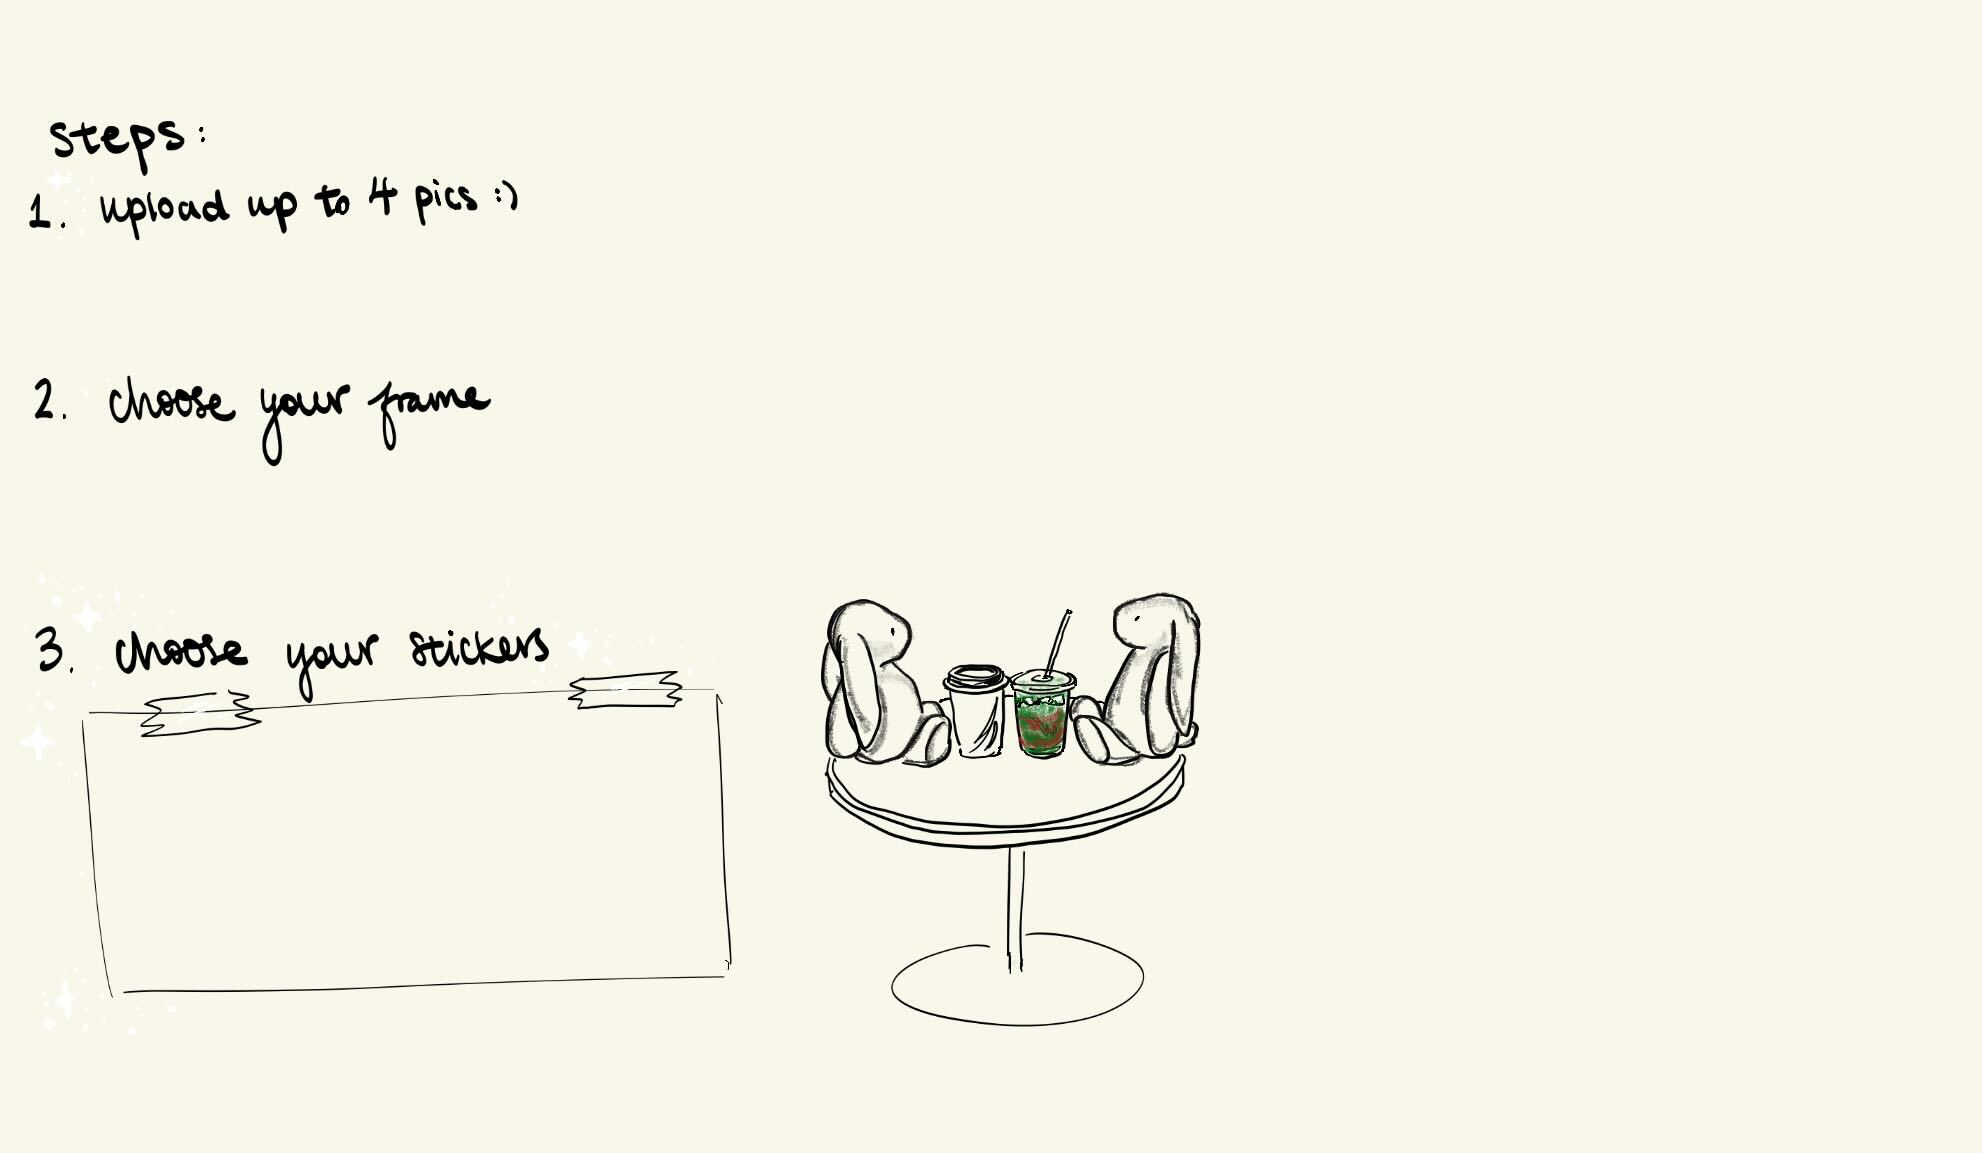
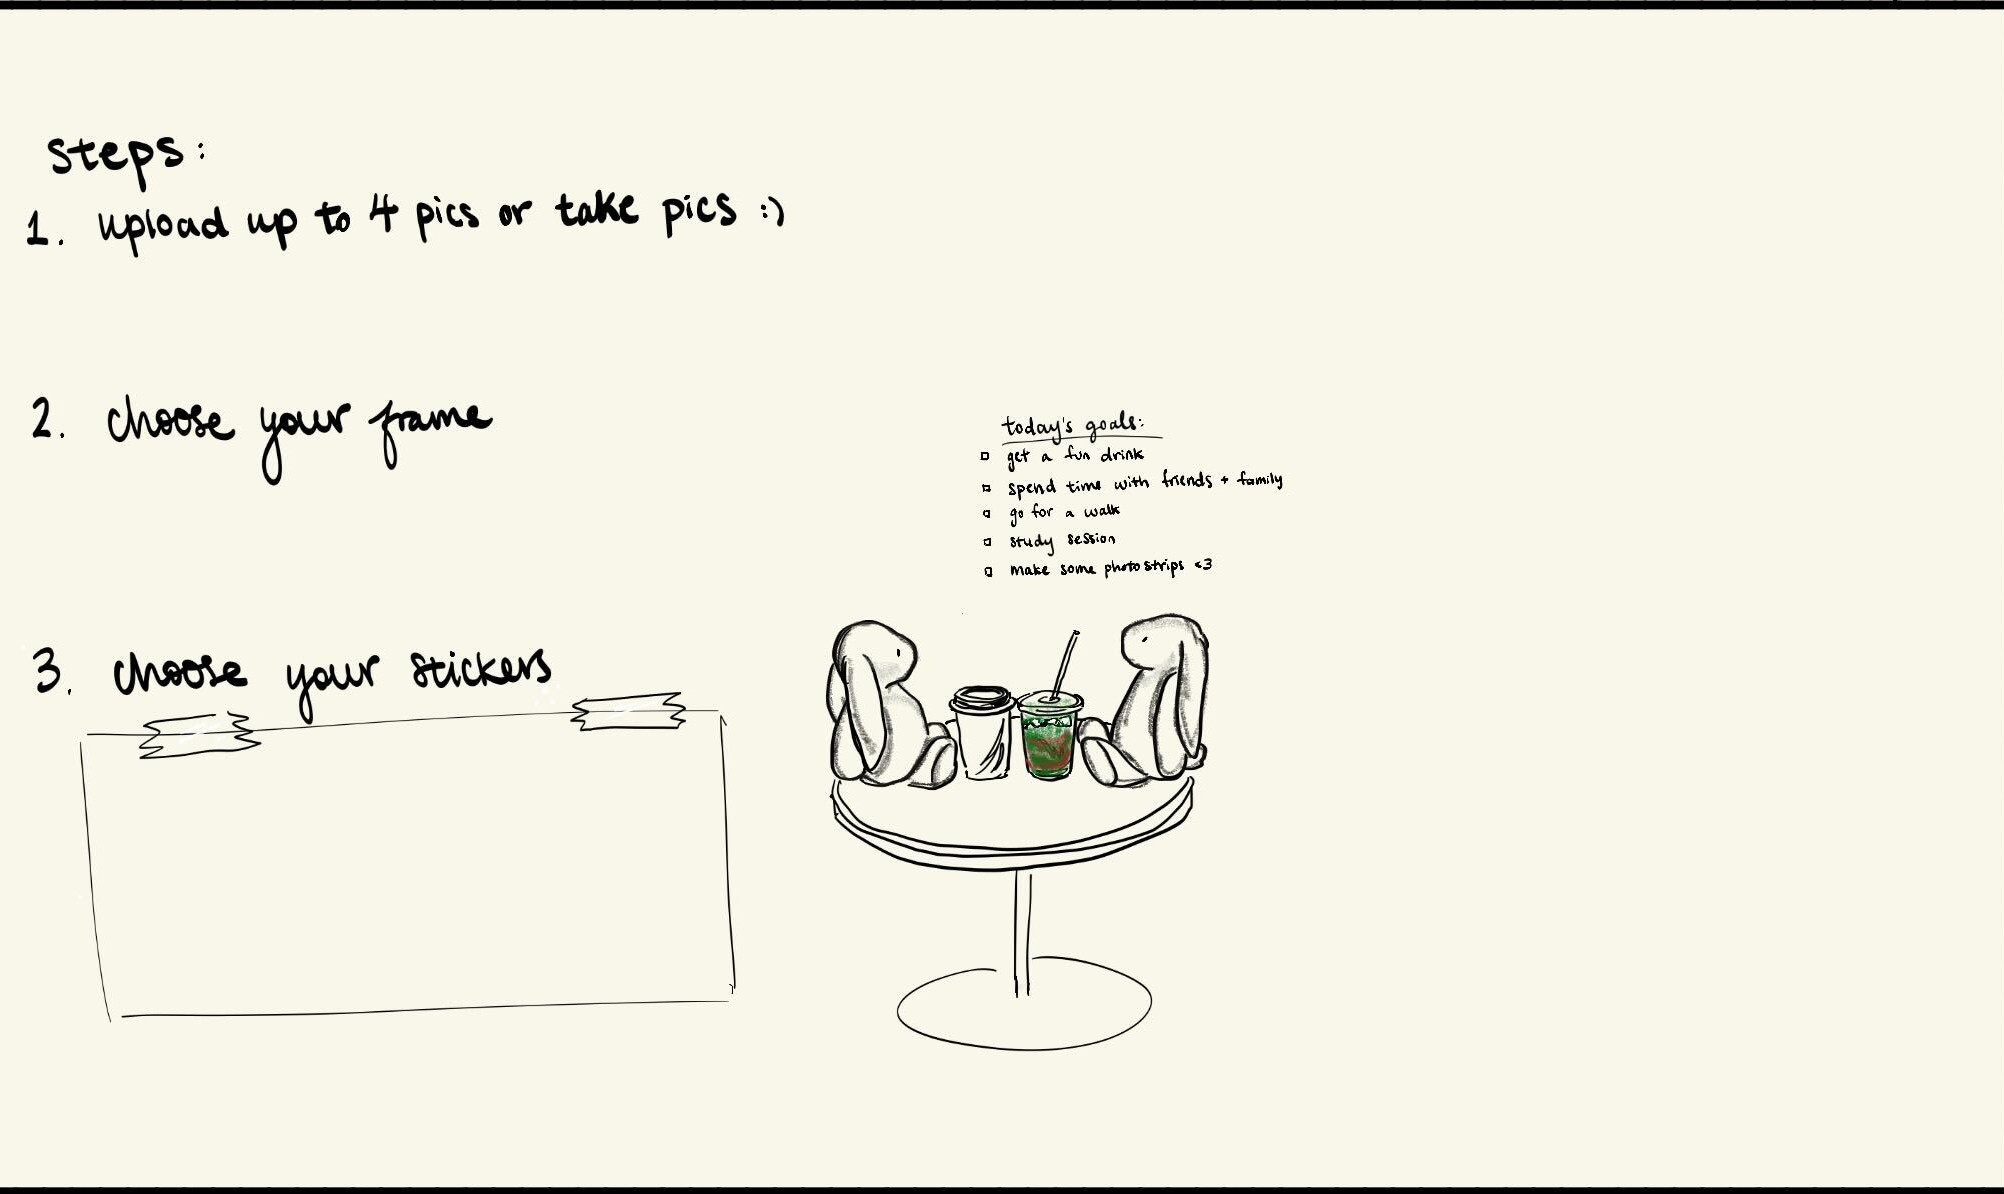
pretty much done

diff --git a/src/PhotoboothApp.js b/src/PhotoboothApp.js
@@ -62,15 +62,15 @@ const THEMES = {
     image: smiskiTheme,
     buttonImage: smiskiButton,
     buttonWidth: 60,
-    buttonLeft: 80,
+    buttonLeft: 81,
     buttonTop: 315,
     frameWidth: 281,
     frameHeight: 881,
-    photoWidth: 223,
-    photoHeight: 148,
-    photoLeft: 27,
-    photoTop: 35,
-    photoSpacing: 16,
+    photoWidth: 219,
+    photoHeight: 142,
+    photoLeft: 31,
+    photoTop: 39,
+    photoSpacing: 21.5,
     overlay: {
       image: smiskiOverlay,
       width: 135,
@@ -88,10 +88,10 @@ const THEMES = {
     frameWidth: 228,
     frameHeight: 719,
     photoWidth: 177,
-    photoHeight: 117,
-    photoLeft: 24,
-    photoTop: 40,
-    photoSpacing: 19,
+    photoHeight: 114,
+    photoLeft: 25,
+    photoTop: 42,
+    photoSpacing: 21.5,
     overlay: {
       image: sonnyAngelOverlay,
       width: 130,
@@ -108,11 +108,11 @@ const THEMES = {
     buttonTop: 315,
     frameWidth: 281,
     frameHeight: 886,
-    photoWidth: 218,
-    photoHeight: 142,
-    photoLeft: 31,
-    photoTop: 68,
-    photoSpacing: 25,
+    photoWidth: 217,
+    photoHeight: 141,
+    photoLeft: 33,
+    photoTop: 67,
+    photoSpacing: 26,
     overlay: {
       image: miffyCupcakeOverlay,
       width: 206,
@@ -131,7 +131,7 @@ const THEMES = {
     frameHeight: 879,
     photoWidth: 215,
     photoHeight: 140,
-    photoLeft: 33,
+    photoLeft: 34,
     photoTop: 73,
     photoSpacing: 25,
   },
@@ -159,11 +159,11 @@ const THEMES = {
     buttonTop: 374,
     frameWidth: 283,
     frameHeight: 881,
-    photoWidth: 212,
-    photoHeight: 139,
-    photoLeft: 36,
-    photoTop: 64,
-    photoSpacing: 23,
+    photoWidth: 217,
+    photoHeight: 142,
+    photoLeft: 35,
+    photoTop: 65,
+    photoSpacing: 21,
   },
   yellow: {
     name: "Yellow",
@@ -854,10 +854,10 @@ export default function PhotoboothApp() {
           <p
             className="absolute text-center text-white drop-shadow-lg font-bold"
             style={{
-              left: "137px",
-              top: "234px",
+              left: "260px",
+              top: "205px",
               width: "100px",
-              fontSize: "12px",
+              fontSize: "13px",
               textShadow: "2px 2px 4px rgba(0,0,0,0.8)",
             }}
           >

diff --git a/src/App.css b/src/App.css
@@ -1,3 +1,7 @@
+/* * {
+  cursor: url("./images/cursors/cursor.png") 12 12, auto;
+} */
+
 .App {
   text-align: center;
 }
